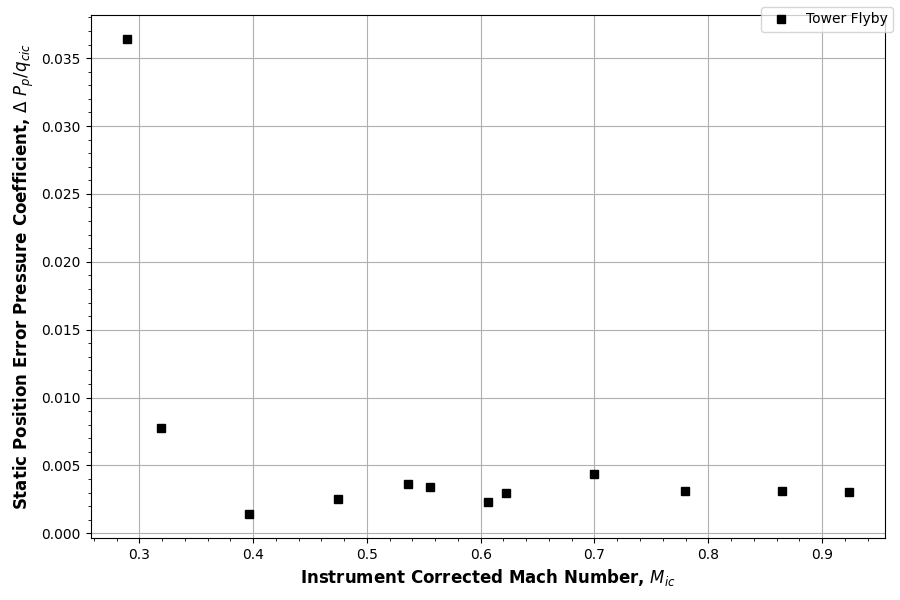
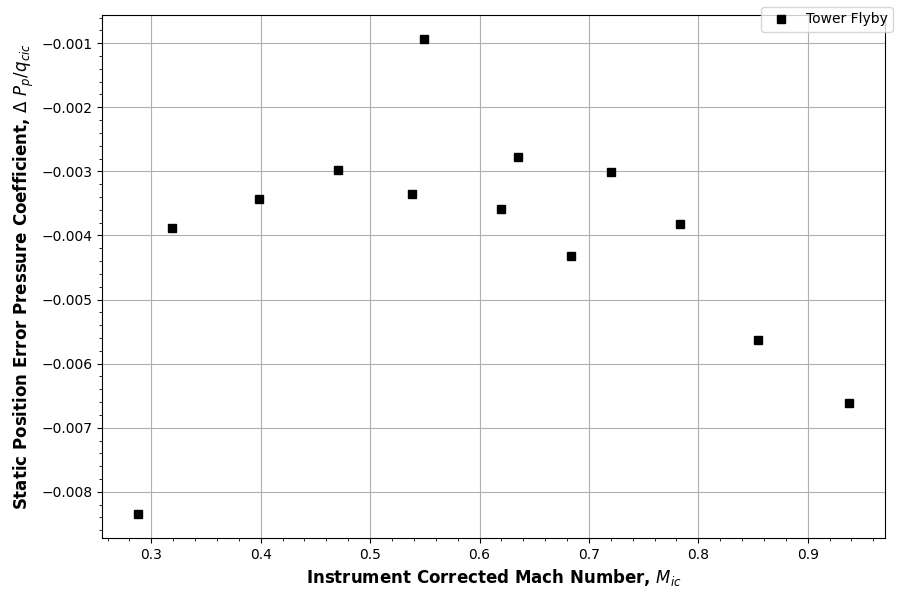
added COBRA data

diff --git a/src/main.py b/src/main.py
@@ -200,7 +200,7 @@ def main():
     # Load RFB flight data from excel file (after DAS processing OR from Test Card)
     print("\nLoading Tower Fly By Data...") #See sample excel spreadsheet for spreasheet format
     #use path.join to avoid compatiblity issues between Linux/Windows
-    file_path = os.path.join("PF7111", "TFB_20250311_COBRA67_HAND.xlsx") 
+    file_path = os.path.join("PF7111", "TFB_20250311_COBRA62_HAND.xlsx") 
     data = TFBData(file_path)
 
     # Create a TFB calculator
